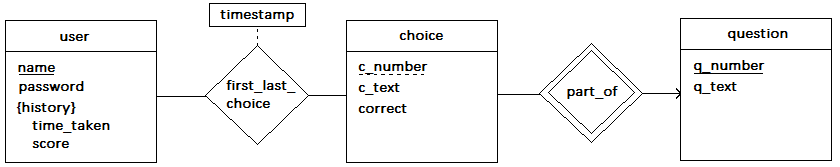
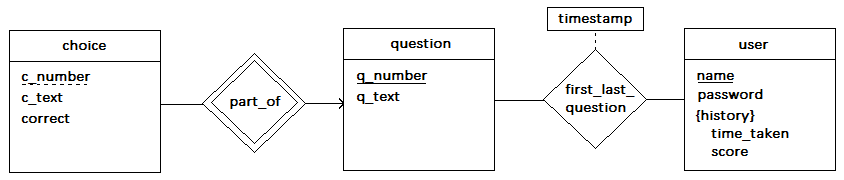
Incorporated quiz.php into the logged in user "area" (so now you have to be logged in to view the quiz). Added "Abort quiz" and "Logout" buttons to quiz.php. Modified my initial ER-design, I was not content with it.

diff --git a/quiz.php b/quiz.php
@@ -1,6 +1,20 @@
 <?php
+/*
+error_reporting(-1);
+ini_set("display_errors", 1); /* Debugging: uncomment if needed */
+
+//---------------------------------------- SESSION MANAGEMENT -----------------------------------------\\
 require_once("phplib/session_dbconnect.php");
 startSession();
+
+if(!isset($_SESSION["usr"])) 
+    // unknown/logged out person visits personal page: redirect to login
+{
+    header("Location: https://siegfried.webhosting.rug.nl/~s2229730/dbweb-homework/login.php");
+    echo("<p>You have to login to be able to view this page.</p>"); 
+        // if - for whatever reason - someone misleads the header, show info 
+    exit;
+}
 ?>
 
 <!DOCTYPE html>
@@ -17,9 +31,6 @@ startSession();
 <h2>Some multiple choice questions</h2>
 
 <?php
-/*
-error_reporting(-1);
-ini_set("display_errors", 1); /* Debugging: uncomment if needed */
 
 //// KEEP TRACK OF THE QUESTION NUMBER AND DO SOME CHEAT PREVENTION
 if(!isset($_SESSION["count"], $_SESSION["submitted"], $_SESSION["score"])) 
@@ -123,7 +134,7 @@ if(isset($_POST["sub"], $_POST["answer"]) && $_POST["sub"] == "Submit")
     $arr = $q_handle->fetch(PDO::FETCH_ASSOC);
     if($arr["correct"])
     {   
-        echo "<br/>That's right!";
+        echo '<br/><p style="color:green"><b>That\'s right!</b></p>';
         if(!$_SESSION["submitted"]) // increase score if the question hasn't been submitted before
             {
             ++$_SESSION["score"];
@@ -131,12 +142,22 @@ if(isset($_POST["sub"], $_POST["answer"]) && $_POST["sub"] == "Submit")
             }
     }
     else
-        echo "<br/>Sorry, that's the wrong answer.";
+        echo '<br/><p style="color:red"><b>Sorry, that\'s the wrong answer.</b></p>';
         
     if ($count == $Qlen) // display score after answering last question
-            echo "<br/><br/>That's it! Your score is " . $_SESSION["score"] . ".";
+            echo "<p><b>That's it! Your score is " . $_SESSION["score"] . ".</b></p>";           
 }
 ?>
+
+<br/>
+<form action=personalpage.php method=post>
+<input type="submit" name="abort" value="Abort quiz"/>
+</form>
+
+<br/>
+<form action=login.php method=post>
+<input type="submit" name="logout" value="Logout"/>
+</form>
 
 </body>
 </html>

diff --git a/personalpage.php b/personalpage.php
@@ -8,16 +8,14 @@ ini_set("display_errors", 1); /* Debugging: uncomment if needed */
 require_once("phplib/session_dbconnect.php");
 startSession();
 
-if(isset($_POST["logout"])) // user wants to log out, kill his/her session
-{
-    $_SESSION = array();
-    session_destroy();
-}
+if(isset($_POST["abort"])) // user chose to abort quiz, unset quiz session variables
+    unset($_SESSION["count"], $_SESSION["submitted"], $_SESSION["score"]);
 
-if(!isset($_SESSION["usr"])) 
-    // unknown/logged out person visits personal page: redirect to login
+if(!isset($_SESSION["usr"])) // unknown/logged out person visits personal page: redirect to login
 {
     header("Location: https://siegfried.webhosting.rug.nl/~s2229730/dbweb-homework/login.php");
+    echo("<p>You have to login to be able to view this page.</p>"); 
+        // if - for whatever reason - someone misleads the header, show info 
     exit;
 }
 ?>
@@ -37,10 +35,10 @@ $escaped_uname = htmlentities($_SESSION["usr"]); // make username safe to output
 ?>
 <p>Welcome, <?php echo $escaped_uname; ?>.</p>
 <form action=quiz.php method=post>
-<input type="submit" name="quiz" value="Take quiz!"/>
+<input type="submit" name="quiz" value="Start/continue quiz!"/>
 </form>
 <br/>
-<form action=personalpage.php method=post>
+<form action=login.php method=post>
 <input type="submit" name="logout" value="Logout"/>
 </form>
 <h3>Your history</h3>

diff --git a/login.php b/login.php
@@ -8,6 +8,12 @@ ini_set("display_errors", 1); /* Debugging: uncomment if needed */
 require_once("phplib/session_dbconnect.php");
 startSession();
 
+if(isset($_POST["logout"])) // user wants to log out (is referred to this page), kill his/her session
+{
+    $_SESSION = array();
+    session_destroy();
+}
+
 if(isset($_SESSION["usr"])) 
 {
     // there is still some login session active: redirect to personal page
